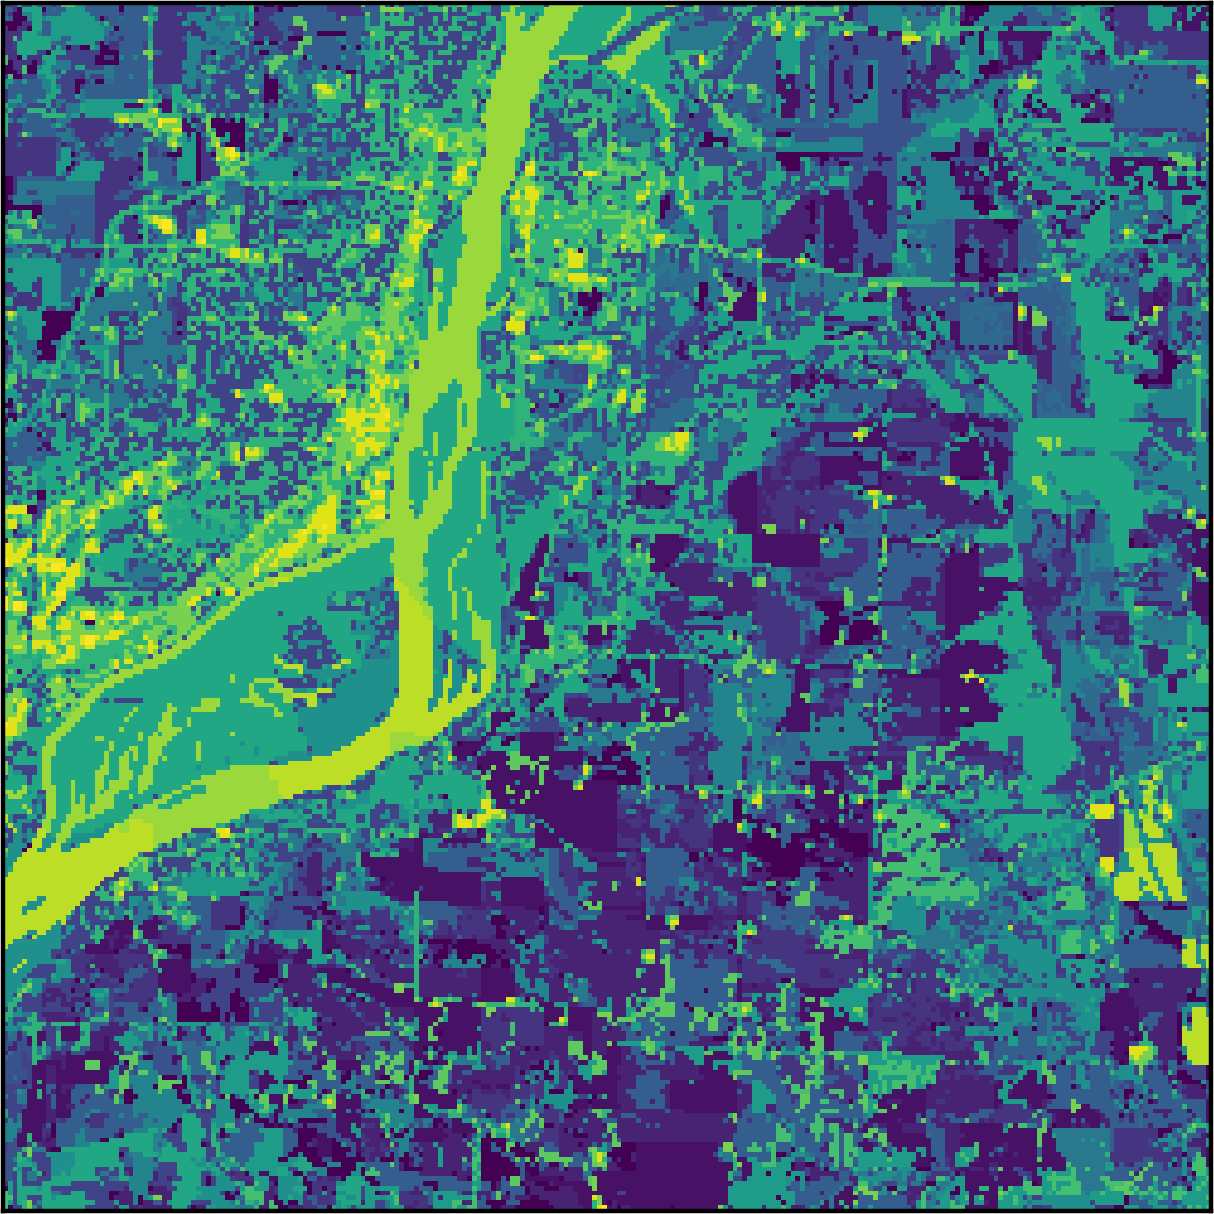
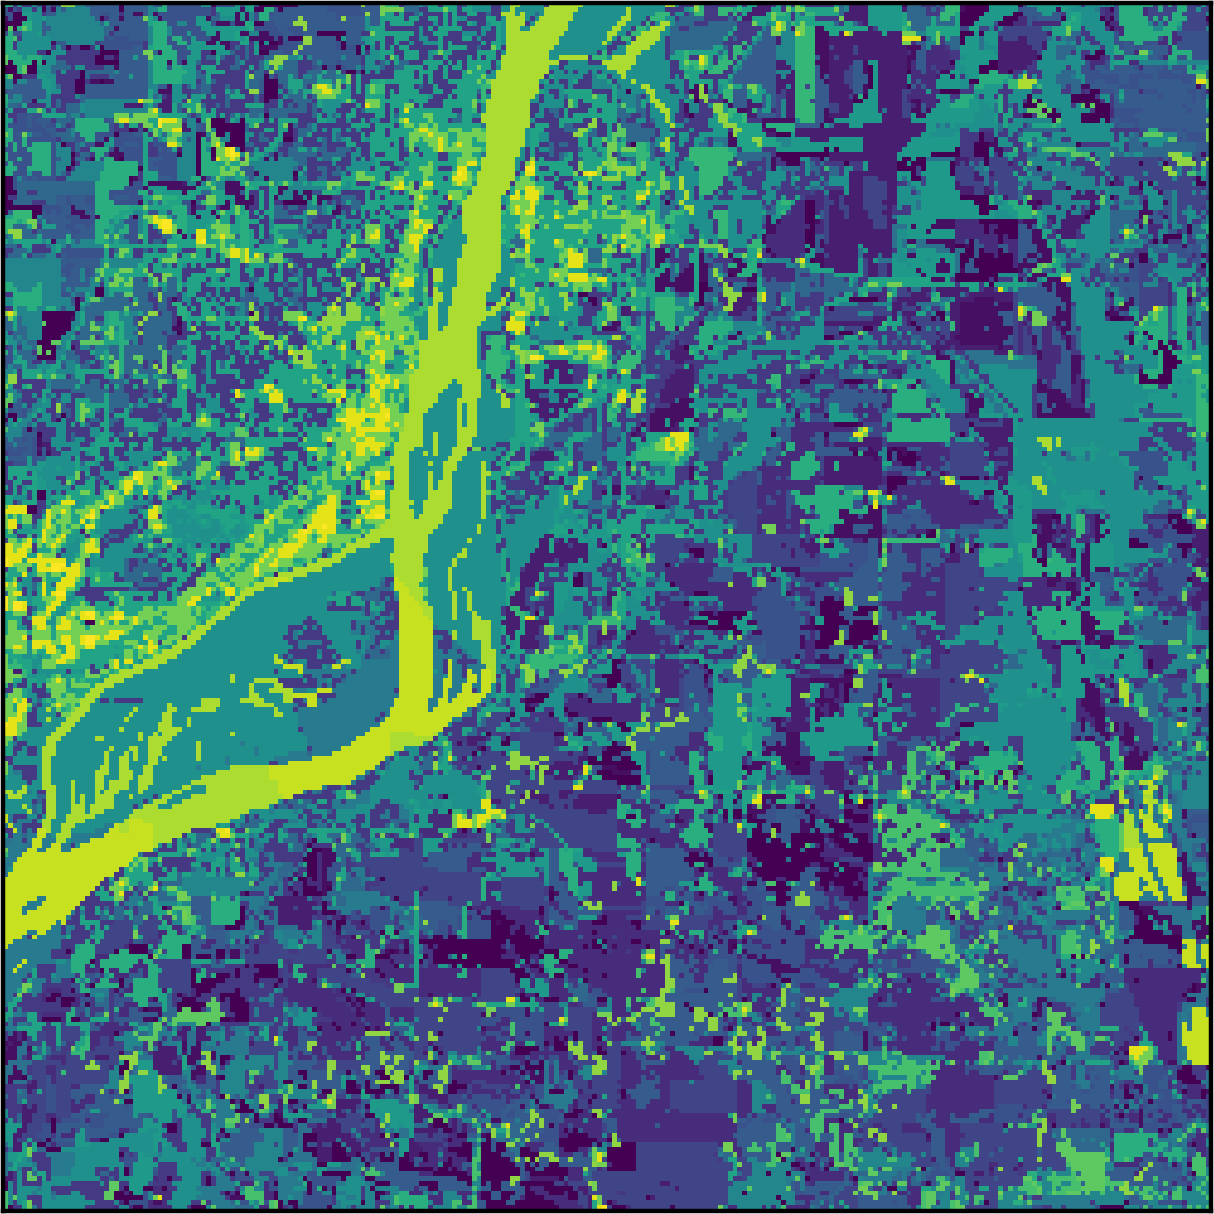
Added recoloured maps

diff --git a/cropland/index.html b/cropland/index.html
@@ -57,11 +57,29 @@
 				</section>
 
 				<section>
+					<h2>USDA Cropland Data Layer</h2>
+          <ul>
+            <li>landcover classification and estimation</li>
+            <li>produced after the calendar year</li>
+            <li>uses satellite data from:
+              <ul>
+                <li>5 satellites</li>
+                <li>yearly aggricultural statistics</li>
+            </ul></li>
+          </ul>
+				</section>
+
+        <section>
+          <h2>objective:</h2>
+          <p>to replicate the USDA Cropland Data Layer with the KMeans clustering algoritm</p>
+        </section>
+
+				<section>
 					<h2>full area, 2 June 2017</h2>
           <img data-src="img/0602-rgb-expanded.png" alt="the full map" height=500>
           <aside class=notes>
-            landsat-8 takes this picture 24 times a year
-            used all of them that had under 40% cloud cover
+            <p>landsat-8 takes this picture 24 times a year</p>
+            <p>used all of them that had under 40% cloud cover</p> 
           </aside>
         </section>
 
@@ -69,7 +87,7 @@
           <h2>look closer</h2>
           <img data-src="img/0602-rgb.png" alt="a smaller area" height=500>
           <aside class=notes>
-            individual plots visible in NW
+            <p>individual plots visible in NW</p>
           </aside>
 				</section>
 
@@ -96,10 +114,11 @@
         <section>
           <h2>Processing</h2>
           <ul>
-            <li>cloud and obstruction removal</li>
-            <li>pooling to 1 acre</li>
-            <li>pca to reduce number of channels</li>
-            <li>kmeans for 21 clusters</li>
+            <li>aligned all satellite images</li>
+            <li>removed clouds and other obstructions</li>
+            <li>pooled to 1 acre resolution</li>
+            <li>reduced dimensionality with pca</li>
+            <li>found 21 clusters with kmeans</li>
           </ul>
           <aside class=notes>
           </aside>
@@ -110,11 +129,11 @@
           <div class=my-flex>
             <div class="thin">
               <h4 class="thin">KMeans</h4>
-              <img data-src="img/kmeans.png" alt="a smaller area" height=300>
+              <img data-src="img/kmeans.png" alt="a smaller area" height=350>
             </div>
             <div class="thin">
               <h4 class="thin">USDA</h4>
-              <img data-src="img/usda_cdl.png" alt="a smaller area" height=300>
+              <img data-src="img/usda_cdl.png" alt="a smaller area" height=350>
             </div>
           </div>
           <aside class=notes>
@@ -124,25 +143,47 @@
         <section>
             <h2>Cluster similarity</h2>
             <div id="chart">
-              <svg id="heatmap" width="100%" height="500px"></svg>
+              <svg id="heatmap" width="85%" height="515px"></svg>
             </div>
           <aside class=notes>
           </aside>
         </section>
 
         <section>
-          <div class="my_flex">
-            <img data-src="img/0602-rgb-expanded.png" alt="the full map" height=300>
-            <img data-src="img/kmeans_expanded.png" alt="a smaller area" height=300>
-            <img data-src="img/cdl_expanded.png" alt="a smaller area" height=300>
+          <h2>Recolored clusters</h2>
+          <div class=my-flex>
+            <div class="thin">
+              <h4 class="thin">KMeans</h4>
+              <img data-src="img/kmeans-colored.png" alt="a smaller area" height=350>
+            </div>
+            <div class="thin">
+              <h4 class="thin">USDA</h4>
+              <img data-src="img/usda_cdl.png" alt="a smaller area" height=350>
+            </div>
+          </div>
+          <aside class=notes>
+          </aside>
+				</section>
+
+        <section>
+          <h2>full scale</h2>
+          <div class=my-flex>
+            <div class="thin">
+              <h4 class="thin">KMeans</h4>
+              <img data-src="img/kmeans-colored_expanded.png" alt="a smaller area" height=400>
+            </div>
+            <div class="thin">
+              <h4 class="thin">USDA</h4>
+              <img data-src="img/cdl_expanded.png" alt="a smaller area" height=400>
+            </div>
           </div>
         </section>
 
         <section>
           <h2>Thank you</h2>
           <div class="my_flex">
+            <img data-src="img/kmeans-colored_expanded.png" alt="a smaller area" height=300>
             <img data-src="img/0602-rgb-expanded.png" alt="the full map" height=300>
-            <img data-src="img/kmeans_expanded.png" alt="a smaller area" height=300>
             <img data-src="img/cdl_expanded.png" alt="a smaller area" height=300>
           </div>
           <div class="my-flex">

diff --git a/cropland/js/d3_heatmap.js b/cropland/js/d3_heatmap.js
@@ -10,6 +10,7 @@ function make_heatmap(data){
   const colWidth  = 25;
 
   var color = d3.scaleSequential(d3.interpolateInferno).domain([0,0.3]);
+  var colLabel=['0','1','2','3','4','5','6','7','8','9','10','11','12','13','14','15','16','17','18','19','20','21']
 
   const names = svg.selectAll('g')
                   .data(data)
@@ -20,7 +21,7 @@ function make_heatmap(data){
        .append('text')
        .text((d) => d.usda)
        .attr('class', function(d,i) { return "rowLabel r"+i+" text-native";})
-       .attr('x', 245)
+       .attr('x', 255)
        .attr('text-anchor','end')
        .attr('y', (datum, index) => (index + 1) * colHeight + 6);
 
@@ -35,14 +36,14 @@ function make_heatmap(data){
        }))
        .enter()
        .append('rect')
-       .attr('x', (d,col) => (col + 1.91)*colWidth + 200)
+       .attr('x', (d,col) => (col + 1.91)*colWidth + 210)
        .attr('y', (d,col) => (d.row + 0.51)*colHeight)
        .attr('width', 0.98*colWidth)
        .attr('height', 0.98*colHeight)
        .attr('fill', (d) => color(d.weight))
        .attr("class", (d, i) => `cell cell-border cr${d.row} cc${i}`)
        .on('mouseover', function(d){
-         d3.selectAll(`.cc${d.col}`).classed("cell-hover",(d_other) => d_other.weight > 0.07);
+        d3.selectAll(`.cc${d.col}`).classed("cell-hover",(d_other) => d_other.weight > 0.05);
          d3.selectAll(".rowLabel").classed("text-highlight",function(r,ri){ 
            return d3.selectAll(`.cr${ri}.cell-hover`).size();});
          d3.selectAll(".rowLabel").classed("text-native", false);
@@ -52,7 +53,17 @@ function make_heatmap(data){
          d3.selectAll(`.cc${d.col}`).classed("cell-hover",false);
          d3.selectAll(".rowLabel").classed("text-highlight",false);
        });
-
+  
+  var colLabels = svg.append("g")
+      .selectAll(".colLabelg")
+      .data(colLabel)
+      .enter()
+      .append("text")
+      .text(function (d) { return d; })
+      .attr("y", 40*colHeight)
+      .attr("x", function (d, col) { 
+        console.log(d); 
+        return d * colWidth });
 
 }
 
